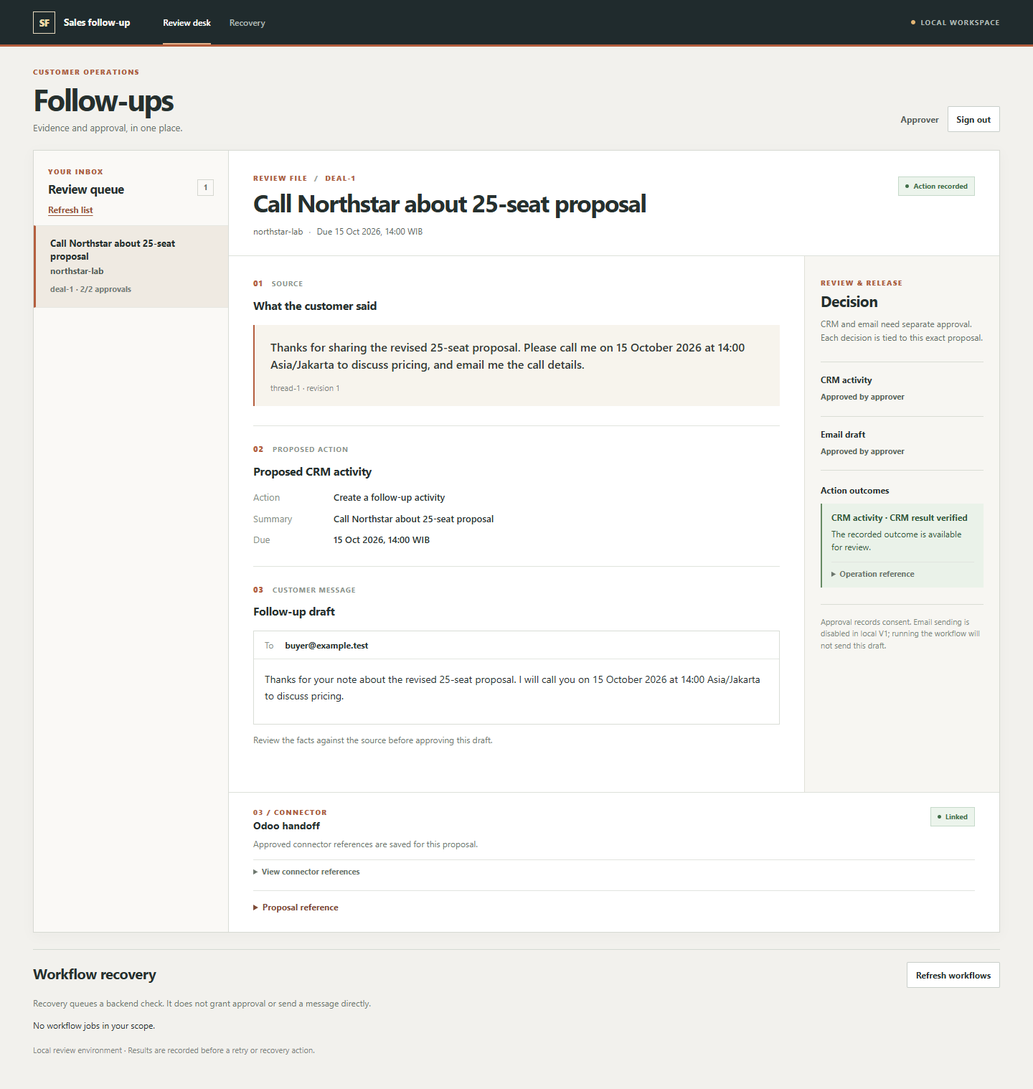
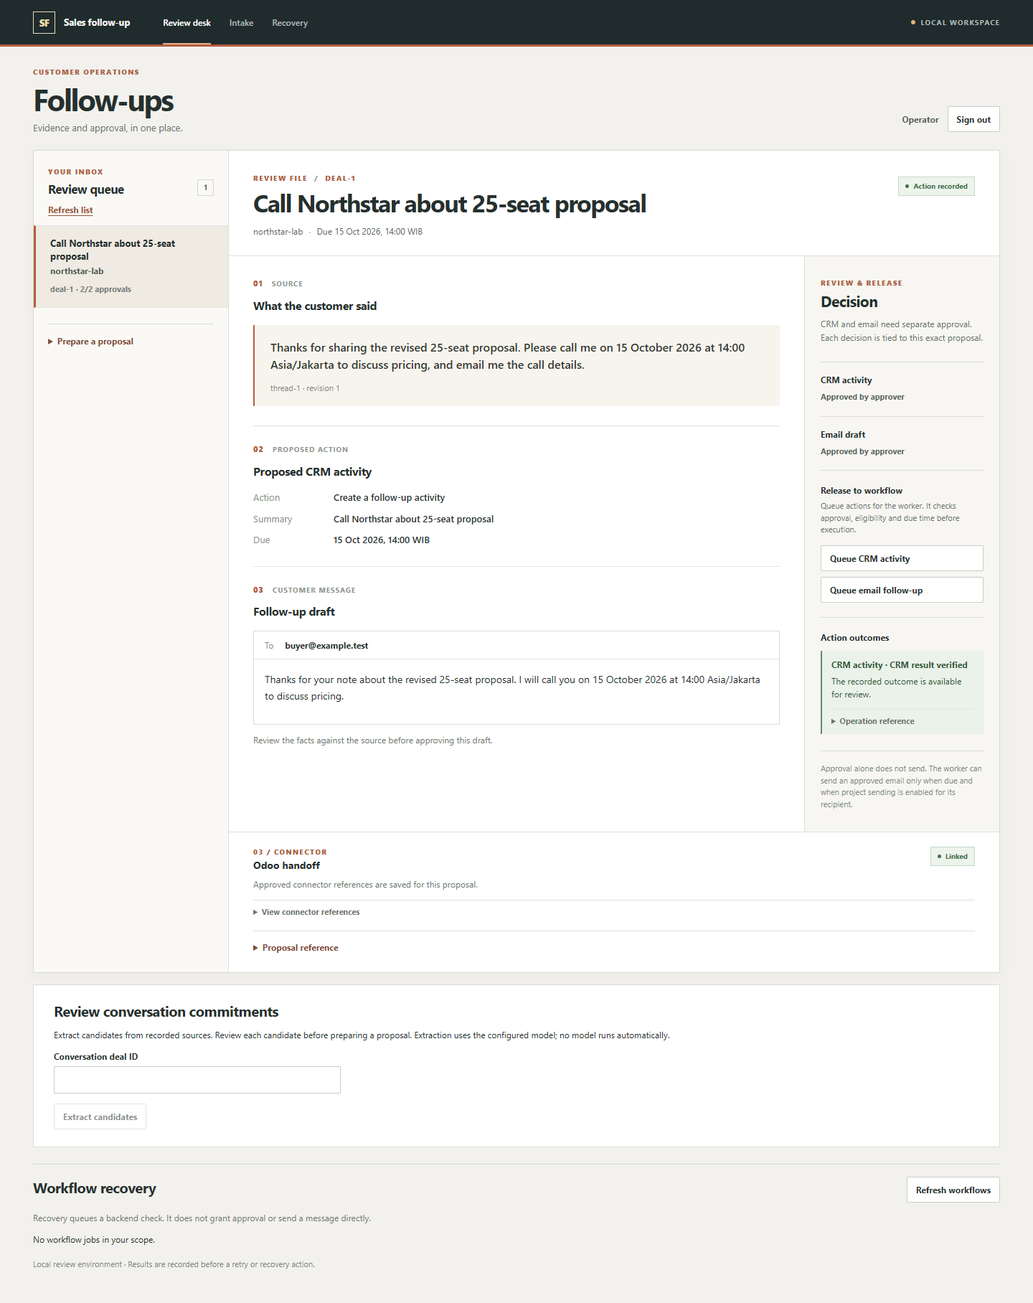
Enable opt-in approved email workflow and operator handoff

diff --git a/web/src/main.tsx b/web/src/main.tsx
@@ -9,7 +9,7 @@ import { ConnectorBinding } from './ConnectorBinding';
 type Actor = {id:string;role:string;tenant_id:string;deal_ids:string[]};
 type Operation = {id:string;kind:'crm'|'email';status:string;recovery:string|null};
 type Proposal = {id:string;payload_hash:string;status:string;validation_error:string|null;approval_valid:boolean;
-  approvals:{kind:string;actor_id:string}[];payload:{deal_id:string;account_id:string;recipient:string;summary:string;due_at:string;draft:string;evidence:{source_id:string;revision:number;quote:string}[]}};
+  approvals:{kind:string;actor_id:string}[];payload:{deal_id:string;account_id:string;recipient:string;summary:string;due_at:string;draft:string;commitment?:{id:string;revision:number}|null;evidence:{source_id:string;revision:number;quote:string}[]}};
 
 function readableDate(value:string){
   const date=new Date(value);
@@ -64,10 +64,11 @@ function App(){
         </div><aside className="decision-panel"><p className="eyebrow">REVIEW & RELEASE</p><h3>Decision</h3><p className="decision-intro">CRM and email need separate approval. Each decision is tied to this exact proposal.</p>
           <div className="decision-item"><p className="decision-name">CRM activity</p><Approval kind="crm" proposal={selected} actor={actor} busy={busy} onApprove={()=>approve('crm')}/></div>
           <div className="decision-item"><p className="decision-name">Email draft</p><Approval kind="email" proposal={selected} actor={actor} busy={busy} onApprove={()=>approve('email')}/></div>
+          <ProposalHandoff key={selected.id} token={token} id={selected.id} role={actor.role} stale={!!selected.validation_error} commitmentBound={!!selected.payload.commitment}/>
           <section className="outcome-section"><h3>Action outcomes</h3>{operations.length===0?<p className="muted">No action recorded yet.</p>:operations.map(op=><div key={op.id} className={op.recovery?'alert':'notice'}><strong>{op.kind==='crm'?'CRM activity':'Email'} · {op.status==='unknown'||op.status==='dispatched'?'Outcome unknown':op.status==='verified'?'CRM result verified':op.status==='accepted'?'Accepted / sent observed':op.status}</strong><p>{op.recovery?'Reconcile the recorded operation before attempting another action. A lost response may hide a completed action.':op.kind==='email'?'Acceptance or Sent Items does not establish delivery or read status.':'The recorded outcome is available for review.'}</p><details className="technical-details"><summary>Operation reference</summary><code>{op.id}</code></details></div>)}</section>
-          <p className="release-note">Approval records consent. Email sending is disabled in local V1; running the workflow will not send this draft.</p>
+          <p className="release-note">Approval alone does not send. The worker can send an approved email only when due and when project sending is enabled for its recipient.</p>
         </aside></div>
-        <div className="case-technical"><ConnectorBinding key={'binding-'+selected.id} token={token} id={selected.id} role={actor.role} stale={!!selected.validation_error}/><ProposalHandoff key={selected.id} token={token} id={selected.id} role={actor.role} stale={!!selected.validation_error}/><details><summary>Proposal reference</summary><p className="reference">{selected.id}<br/>Payload: {selected.payload_hash}</p></details></div>
+        <div className="case-technical"><ConnectorBinding key={'binding-'+selected.id} token={token} id={selected.id} role={actor.role} stale={!!selected.validation_error}/><details><summary>Proposal reference</summary><p className="reference">{selected.id}<br/>Payload: {selected.payload_hash}</p></details></div>
       </>}</article>
     </div>}
     {actor?.role==='operator'&&<div id="conversation-intake"><IntakeReview token={token} onPrepared={async()=>{await refresh();}}/></div>}

diff --git a/web/tests/review.spec.ts b/web/tests/review.spec.ts
@@ -50,9 +50,15 @@ test('unknown operation visibly requires reconciliation, with no resend button',
 });
 
 test('portfolio view keeps outcomes prominent and technical references collapsed',async({page,request})=>{
+  const commitment=await request.post('/v1/deals/deal-1/commitments',{headers:{Authorization:'Bearer visual-test-operator'},data:{
+    id:'northstar-followup',revision:1,supersedes:null,owner:'Sales',description:'Call Northstar about 25-seat proposal',
+    due_at:'2026-10-15T14:00:00+07:00',observed_at:'2026-10-08T10:00:00Z',
+    evidence:{source_id:'thread-1',revision:1,quote:customerQuote},state:'active'}});
+  expect(commitment.ok()).toBeTruthy();
   const prepared=await request.post('/v1/proposals',{headers:{Authorization:'Bearer visual-test-operator'},data:{
     deal_id:'deal-1',deal_version:1,evidence:[{source_id:'thread-1',revision:1,quote:customerQuote}],
-    summary:'Call Northstar about 25-seat proposal',due_at:'2026-10-15T14:00:00+07:00',draft:'Thanks for your note about the revised 25-seat proposal. I will call you on 15 October 2026 at 14:00 Asia/Jakarta to discuss pricing.'}});
+    summary:'Call Northstar about 25-seat proposal',due_at:'2026-10-15T14:00:00+07:00',draft:'Thanks for your note about the revised 25-seat proposal. I will call you on 15 October 2026 at 14:00 Asia/Jakarta to discuss pricing.',
+    commitment:{id:'northstar-followup',revision:1}}});
   expect(prepared.ok()).toBeTruthy();
   const proposal=await prepared.json();
   for(const kind of ['crm','email']){
@@ -62,11 +68,15 @@ test('portfolio view keeps outcomes prominent and technical references collapsed
   await page.route(`**/v1/proposals/${proposal.id}/operations`,route=>route.fulfill({json:{items:[{id:'synthetic-ui-operation',kind:'crm',status:'verified',recovery:null}]}}));
   await page.route(`**/v1/proposals/${proposal.id}/connector-binding`,route=>route.fulfill({json:{connector_tenant:'synthetic-sandbox',local_payload_hash:'a'.repeat(64),preview:{summary:'Call Northstar about 25-seat proposal'}}}));
   await page.goto('/');
-  await page.getByLabel('Access token').fill('visual-test-approver');
+  await page.getByLabel('Access token').fill('visual-test-operator');
   await page.getByRole('button',{name:'Continue'}).click();
   await page.getByRole('button',{name:/Call Northstar about 25-seat proposal/}).click();
   await expect(page.getByText('CRM result verified')).toBeVisible();
   await expect(page.getByText('Linked',{exact:true})).toBeVisible();
+  await expect(page.getByRole('button',{name:'Queue CRM activity'})).toBeVisible();
+  await expect(page.getByRole('button',{name:'Queue email follow-up'})).toBeVisible();
   await expect(page.getByText('local payload hash')).toBeHidden();
   await page.screenshot({path:'../docs/assets/sales-review-verified.png',fullPage:true});
+  await page.getByRole('button',{name:'Queue email follow-up'}).click();
+  await expect(page.getByRole('status')).toContainText('Queued email follow-up');
 });

diff --git a/web/src/ProposalHandoff.tsx b/web/src/ProposalHandoff.tsx
@@ -1,18 +1,19 @@
 import {useState} from 'react';
 
-export function ProposalHandoff({token,id,role,stale}:{token:string;id:string;role:string;stale:boolean}){
+export function ProposalHandoff({token,id,role,stale,commitmentBound}:{token:string;id:string;role:string;stale:boolean;commitmentBound:boolean}){
   const [busy,setBusy]=useState(false),[message,setMessage]=useState(''),[error,setError]=useState('');
   async function handoff(kind:string){setBusy(true);setMessage('');setError('');try{
     const response=await fetch(`/v1/proposals/${encodeURIComponent(id)}/handoff/${kind}`,{method:'POST',headers:{Authorization:`Bearer ${token}`}});
     const data=await response.json();if(!response.ok)throw Error(data.error||'Handoff failed');
     setMessage(kind==='crm'
       ?`Queued CRM activity for the configured worker. Job: ${data.id}. Approval and eligibility are checked before execution.`
-      :`Queued email job: ${data.id}. Email sending is disabled in local V1; this job will not deliver a message.`);
+      :`Queued email follow-up for the configured worker. Job: ${data.id}. Sending requires approval, due time, and project configuration.`);
   }catch(e){setError(e instanceof Error?e.message:'Handoff failed');}finally{setBusy(false);}}
   if(role!=='operator')return null;
-  return <section><h3>Workflow handoff</h3><p>Queue this proposal for the configured worker. Queueing does not approve or execute an action. Email sending is disabled in local V1.</p>
-    <button disabled={busy||stale} onClick={()=>handoff('crm')}>Queue CRM activity</button>{' '}
-    <button disabled={busy||stale} onClick={()=>handoff('email')}>Queue email job (sending off)</button>
+  return <section className="handoff"><h3>Release to workflow</h3><p>Queue actions for the worker. It checks approval, eligibility and due time before execution.</p>
+    {!commitmentBound&&<p>Record a source-backed commitment through Intake before queueing this proposal.</p>}
+    <button disabled={busy||stale||!commitmentBound} onClick={()=>handoff('crm')}>Queue CRM activity</button>
+    <button disabled={busy||stale||!commitmentBound} onClick={()=>handoff('email')}>Queue email follow-up</button>
     {message&&<p role="status">{message}</p>}{error&&<p role="alert">{error.replaceAll('_',' ')}</p>}
   </section>;
 }

diff --git a/web/src/style.css b/web/src/style.css
@@ -96,6 +96,10 @@ dd { margin: 0; font-weight: 630; }
 .approval { display: flex; flex-direction: column; align-items: start; gap: 11px; font-size: 11px; }
 .approval span { color: #58675b; font-weight: 650; }
 .approval .primary { width: 100%; text-align: center; }
+.handoff { padding: 20px 0; border-top: 1px solid #daddd5; }
+.handoff h3 { margin: 0 0 7px; font-size: 12px; font-weight: 760; }
+.handoff p { margin: 0 0 13px; color: #68726a; font-size: 11px; line-height: 1.5; }
+.handoff button { display: block; width: 100%; margin: 8px 0 0; text-align: left; }
 .outcome-section { padding-top: 20px; border-top: 1px solid #daddd5; }
 .outcome-section h3 { margin: 0 0 12px; font-size: 12px; font-weight: 760; }
 .outcome-section .muted { margin: 0; }

diff --git a/backend/connector_runtime.py b/backend/connector_runtime.py
@@ -1,6 +1,7 @@
-"""Project-scoped connectors; CRM writes opt in, email sends remain disabled."""
+"""Project-scoped connectors; CRM writes and allowlisted email sends opt in."""
 from dataclasses import dataclass
 import json
+import re
 from pathlib import Path
 from uuid import UUID
 from pydantic import BaseModel, ConfigDict, Field
@@ -42,6 +43,8 @@ class ConnectorConfig(Strict):
     local_tenant: UUID
     worker_id: UUID
     crm_write_enabled: bool = Field(default=False, strict=True)
+    email_send_enabled: bool = Field(default=False, strict=True)
+    email_recipient_allowlist: list[str] = Field(default_factory=list, max_length=20)
     odoo: OdooConfig | None = None
     graph: GraphConfig | None = None
 
@@ -74,6 +77,13 @@ def compose(service, identities, name, *, root=ROOT):
     cfg = ConnectorConfig.model_validate(json.loads(local_file(name,root).read_text(encoding='utf-8')))
     if cfg.crm_write_enabled and not cfg.odoo:
         raise ValueError('CRM writes require an Odoo connector')
+    if cfg.email_send_enabled and not cfg.graph:
+        raise ValueError('Email sends require a Graph connector')
+    recipients = cfg.email_recipient_allowlist
+    if cfg.email_send_enabled and not recipients:
+        raise ValueError('Email sends require an explicit recipient allowlist')
+    if len(set(recipients)) != len(recipients) or any(not re.fullmatch(r'[^\s@]+@[^\s@]+\.[^\s@]+', recipient) for recipient in recipients):
+        raise ValueError('Invalid email recipient allowlist')
     workers = {a.id:a for a in identities.values() if a.id==str(cfg.worker_id) and a.tenant_id==str(cfg.local_tenant) and a.role=='worker'}
     if len(workers)!=1:raise ValueError('Configured connector worker identity missing')
     worker = next(iter(workers.values()))
@@ -91,7 +101,10 @@ def compose(service, identities, name, *, root=ROOT):
         token = token_reader(item.token_file,root)
         client = GraphReadClient(str(cfg.local_tenant),item.mailbox,token,folder=item.folder)
         ingestion = GraphIngestion(service,worker,client,item.message_deals)
-        mail = GraphMailAdapter(str(cfg.local_tenant),item.mailbox,token,repository.payload,send_enabled=False)
+        mail = GraphMailAdapter(str(cfg.local_tenant),item.mailbox,token,repository.payload,
+                                recipients=frozenset(recipients),send_enabled=cfg.email_send_enabled)
     if crm is None and ingestion is None:raise ValueError('No connectors configured')
-    execution = ExecutionService(service,EffectRouter(crm,mail),enabled=cfg.crm_write_enabled,send_enabled=False)
+    execution = ExecutionService(service,EffectRouter(crm,mail),enabled=cfg.crm_write_enabled or cfg.email_send_enabled,
+                                 crm_enabled=cfg.crm_write_enabled,send_enabled=cfg.email_send_enabled,
+                                 recipients=frozenset(recipients))
     return Runtime(execution,crm,ingestion)

diff --git a/tests/test_connector_runtime.py b/tests/test_connector_runtime.py
@@ -43,6 +43,33 @@ def test_explicit_crm_enable_preserves_mail_block(tmp_path):
     assert runtime.execution.send_enabled is False
 
 
+def test_explicit_allowlisted_email_enable_is_independent_of_crm(tmp_path):
+    worker,cfg = configuration(tmp_path)
+    del cfg['odoo']
+    cfg['email_send_enabled']=True
+    cfg['email_recipient_allowlist']=['buyer@example.test']
+    runtime=build(tmp_path,worker,cfg)
+    assert runtime.execution.enabled is True
+    assert runtime.execution.crm_enabled is False
+    assert runtime.execution.send_enabled is True
+    assert runtime.execution.recipients == frozenset({'buyer@example.test'})
+    assert runtime.execution.adapter.adapters['email'].send_enabled is True
+    assert runtime.execution.adapter.adapters['email'].recipients == frozenset({'buyer@example.test'})
+
+
+@pytest.mark.parametrize('change',['missing_graph','empty_recipients','bad_recipient','duplicate_recipient','non_boolean'])
+def test_email_send_configuration_fails_closed(tmp_path,change):
+    worker,cfg = configuration(tmp_path)
+    cfg['email_send_enabled']=True
+    cfg['email_recipient_allowlist']=['buyer@example.test']
+    if change=='missing_graph':del cfg['graph']
+    if change=='empty_recipients':cfg['email_recipient_allowlist']=[]
+    if change=='bad_recipient':cfg['email_recipient_allowlist']=['not-an-address']
+    if change=='duplicate_recipient':cfg['email_recipient_allowlist'].append('buyer@example.test')
+    if change=='non_boolean':cfg['email_send_enabled']='true'
+    with pytest.raises(ValueError):build(tmp_path,worker,cfg)
+
+
 @pytest.mark.parametrize('value',['true',1,None])
 def test_crm_enable_requires_boolean(tmp_path,value):
     worker,cfg = configuration(tmp_path)

diff --git a/backend/execution.py b/backend/execution.py
@@ -12,9 +12,9 @@ class EffectAdapter(Protocol):
 
 class ExecutionService:
     def __init__(self, sales: SalesService, adapter: EffectAdapter, *, enabled=False,
-                 send_enabled=False, recipients: frozenset[str] = frozenset()):
+                 crm_enabled: bool | None = None, send_enabled=False, recipients: frozenset[str] = frozenset()):
         self.sales, self.adapter = sales, adapter
-        self.enabled, self.send_enabled, self.recipients = enabled, send_enabled, recipients
+        self.enabled, self.crm_enabled, self.send_enabled, self.recipients = enabled, enabled if crm_enabled is None else crm_enabled, send_enabled, recipients
 
     def load(self, conn, actor, ident):
         row = conn.execute("SELECT * FROM operations WHERE tenant=? AND id=?", (actor.tenant_id, ident)).fetchone()
@@ -28,6 +28,8 @@ class ExecutionService:
             raise DomainError("invalid_operation",422)
         if not self.enabled:
             raise DomainError("execution_disabled",403)
+        if kind == "crm" and not self.crm_enabled:
+            raise DomainError("crm_write_disabled",403)
         with self.sales.store.connect(actor) as conn:
             proposal = self.sales.row(conn, actor, proposal_id)
             self.sales.scope(actor, proposal["deal_id"], {"operator","worker"})

diff --git a/tests/test_execution.py b/tests/test_execution.py
@@ -87,8 +87,20 @@ def test_scope_and_disabled_execution(lab,proposal):
     with pytest.raises(DomainError,match="execution_disabled"):
         executor.execute(lab[1]["operator"],p["id"],"crm")
     executor.enabled=True
+    executor.crm_enabled=True
     with pytest.raises(DomainError,match="record_not_found"):
         executor.execute(lab[1]["outsider"],p["id"],"crm")
+
+
+def test_email_only_runtime_rejects_crm_before_ledger_commit(lab,proposal):
+    p=approved(lab,proposal)
+    double=EffectDouble()
+    executor=ExecutionService(lab[0],double,enabled=True,crm_enabled=False,send_enabled=True,
+                              recipients=frozenset({'customer@example.test'}))
+    with pytest.raises(DomainError,match='crm_write_disabled'):
+        executor.execute(lab[1]['operator'],p['id'],'crm')
+    assert lab[0].proposal_operations(lab[1]['operator'],p['id'])==[]
+    assert double.calls==0
 
 
 def test_wrong_receipt_does_not_close_operation(lab,proposal):

diff --git a/backend/app.py b/backend/app.py
@@ -79,12 +79,13 @@ def create_app(service: SalesService, identities: dict[str, Actor], skills: Skil
 
     @app.get("/health/ready")
     def ready():
+        send_enabled = bool(execution and execution.send_enabled)
         if isinstance(service.store, PostgresStore):
             service.store.ready()
-            return {"status":"ready", "storage":"postgresql", "connected":False, "send_enabled":False}
+            return {"status":"ready", "storage":"postgresql", "connected":False, "send_enabled":send_enabled}
         with service.store.connect() as conn:
             conn.execute("SELECT 1 FROM proposals LIMIT 1")
-        return {"status": "ready", "storage": "sqlite-local-harness", "connected": False, "send_enabled": False}
+        return {"status": "ready", "storage": "sqlite-local-harness", "connected": False, "send_enabled": send_enabled}
 
     @app.get("/v1/me")
     def me(current: Actor = Depends(actor)):

diff --git a/docs/phase-8/OPERATOR-GUIDE.md b/docs/phase-8/OPERATOR-GUIDE.md
@@ -1,6 +1,6 @@
 # Local V1 operator guide
 
-This release is a **local, connected-sandbox-validated** sales follow-up assistant. The operator owns customer context and the final decision; a separate approver authorizes the exact CRM or email action. A draft is not a sent message. Local V1 has no send button or configuration switch: the Graph send adapter is disabled at runtime. A future send-capable release would require separate implementation and acceptance.
+This release is a **local, connected-sandbox-validated** sales follow-up assistant. The operator owns customer context and the final decision; a separate approver authorizes the exact CRM or email action. A draft is not a sent message. The operator queues a source-backed follow-up; the worker can send an approved email automatically when due. Sending defaults off and requires email_send_enabled=true plus an exact email_recipient_allowlist in ignored local/connectors.json. The new opt-in path has offline regression coverage; it has not been exercised as a new connected send in this UI update. Check /health/ready for the effective send_enabled state before expecting dispatch.
 
 ## Install and start
 
@@ -12,7 +12,7 @@ This release is a **local, connected-sandbox-validated** sales follow-up assista
 
 ## Daily use
 
-Open the workspace as the operator, inspect the source quote, matched customer/deal, current CRM context, proposed field diff, next activity and follow-up draft. Resolve ambiguous dates, unsupported claims, stale context and opt-outs before handoff. Queue CRM and email separately. A distinct approver checks the exact version/payload and approves only the intended effect. The operator then checks the operation status and the Odoo read-back; for email, an accepted Graph response or Sent Items observation is **not** delivery/read proof. Keep a human review of the actual recipient, subject and body before an approved send.
+Open the workspace as the operator, inspect the source quote, matched customer/deal, current CRM context, proposed field diff, next activity and follow-up draft. Resolve ambiguous dates, unsupported claims, stale context and opt-outs before handoff. Record a source-backed commitment through Intake, then queue CRM and email separately in the decision panel. A distinct approver checks the exact version/payload and approves only the intended effect. The operator then checks the operation status and the Odoo read-back; for email, an accepted Graph response or Sent Items observation is **not** delivery/read proof. Keep a human review of the actual recipient, subject and body before an approved send.
 
 `queued` or `awaiting_approval` needs operator/approver work. `review` needs explicit investigation and cannot be silently retried. `unknown` means an external outcome is unresolved: observe the target first, then use the recovery view. `verified` means the target-state observation matched the operation; it does not infer other downstream effects. Use the scoped `/v1/workflows/jobs` list and the UI recovery panel for the owning tenant; do not edit the database ledger by hand.
 

diff --git a/docs/phase-7/CONNECTOR-SETUP.md b/docs/phase-7/CONNECTOR-SETUP.md
@@ -9,7 +9,7 @@ Copy deploy/connectors.example.json to ignored local/connectors.json and replace
 
 All configuration/token paths are resolved under this project's local directory. No upward secret discovery. Token files are read afresh per request; neither composition nor startup makes network calls. No credentials should be pasted into chat or committed.
 
-POST /v1/ingest/graph/poll is authenticated, accepts only the exact configured worker+tenant and processes one bounded Graph page atomically. Repeated pages remain idempotent; next-page scheduling belongs to the caller. Odoo connector-preparation/binding endpoints also check the configured local tenant before contacting the connector. CRM writes default to disabled. In the authorized sandbox configuration only, set the strict boolean crm_write_enabled=true to enable the existing execution and Odoo adapter. This still requires scoped identities, current local approval and an approved connector binding. Set false and restart to disable dispatch. Mail sending remains disabled regardless of this flag; send_enabled is rejected. Existing stored operations can be reconciled through read-only observation when properly scoped and configured.
+POST /v1/ingest/graph/poll is authenticated, accepts only the exact configured worker+tenant and processes one bounded Graph page atomically. Repeated pages remain idempotent; next-page scheduling belongs to the caller. Odoo connector-preparation/binding endpoints also check the configured local tenant before contacting the connector. CRM writes default to disabled. In the authorized sandbox configuration only, set the strict boolean crm_write_enabled=true to enable the existing execution and Odoo adapter. This still requires scoped identities, current local approval and an approved connector binding. Set false and restart to disable dispatch. Email sending is independently disabled by default. To opt in for a controlled sandbox, set email_send_enabled=true and email_recipient_allowlist to the exact permitted addresses in the project-local connector file. A Graph connector, separate email approval, matching recipient, current source/deal and due-time eligibility are required. The worker sends once through the committed operation ledger; an uncertain outcome needs read-only reconciliation, never blind retry. The older send_enabled key remains rejected. Turn the setting off and restart to stop new dispatch; existing operations can still be observed when properly scoped and configured.
 
 The composition and denial tests remain regression coverage. For the connected Odoo read-back, Graph access, n8n execution and controlled-send evidence, use [the Phase 7 audit](COMPLETION-AUDIT.md); Graph send acceptance is not proof of recipient delivery.
 

diff --git a/README.md b/README.md
@@ -8,7 +8,7 @@ A customer email becomes a source-backed CRM activity and a reviewable follow-up
 
 ![Sales follow-up review workspace showing evidence, decisions and a recorded outcome](docs/assets/sales-review-verified.png)
 
-The screenshot uses a synthetic Northstar 25-seat proposal fixture to show the review UI and recorded-outcome state. The separate [connected browser run](docs/evidence/phase-7-connected-browser.json) used an earlier rescheduled-demo case to verify the local app against PostgreSQL and the Odoo sandbox. Email approval remains separate; sending is off in this UI fixture.
+The screenshot uses a synthetic Northstar 25-seat proposal fixture to show the operator's review, queue controls and recorded-outcome state. The separate [connected browser run](docs/evidence/phase-7-connected-browser.json) used an earlier rescheduled-demo case to verify the local app against PostgreSQL and the Odoo sandbox. Email approval remains separate; sending is off in this UI fixture and defaults off in project configuration.
 
 ## Why this project
 
@@ -74,6 +74,8 @@ $env:SALES_IDENTITIES_PATH = 'local/identities.json'
 In another terminal, run `npm.cmd run dev --prefix web` and open http://127.0.0.1:8044. The seed creates private role tokens in ignored `local/access-tokens.json`; use the operator and approver roles separately. For Linux/macOS, use `.venv/bin/python` and `npm` instead. Run `.venv/Scripts/python.exe -m pytest -q` and `npm.cmd run build --prefix web` for offline checks. For MCP checks, run `npm.cmd ci --prefix mcp-server`, then its build and test scripts.
 
 Connected setup requires project-specific credentials, sandbox mappings, PostgreSQL and inactive n8n workflow import. Follow the [operator guide](docs/phase-8/OPERATOR-GUIDE.md); never commit `.env`, tokens or database state. The exported workflows are in [`automation/n8n/`](automation/n8n/README.md).
+
+The operator queue controls and optional allowlisted email dispatch were added after the recorded Phase 8 release archive. The configuration defaults to sending off. Rebuild and validate a new archive before deploying this revision; the earlier release hash documents its own snapshot.
 
 ## Delivery scope
 
